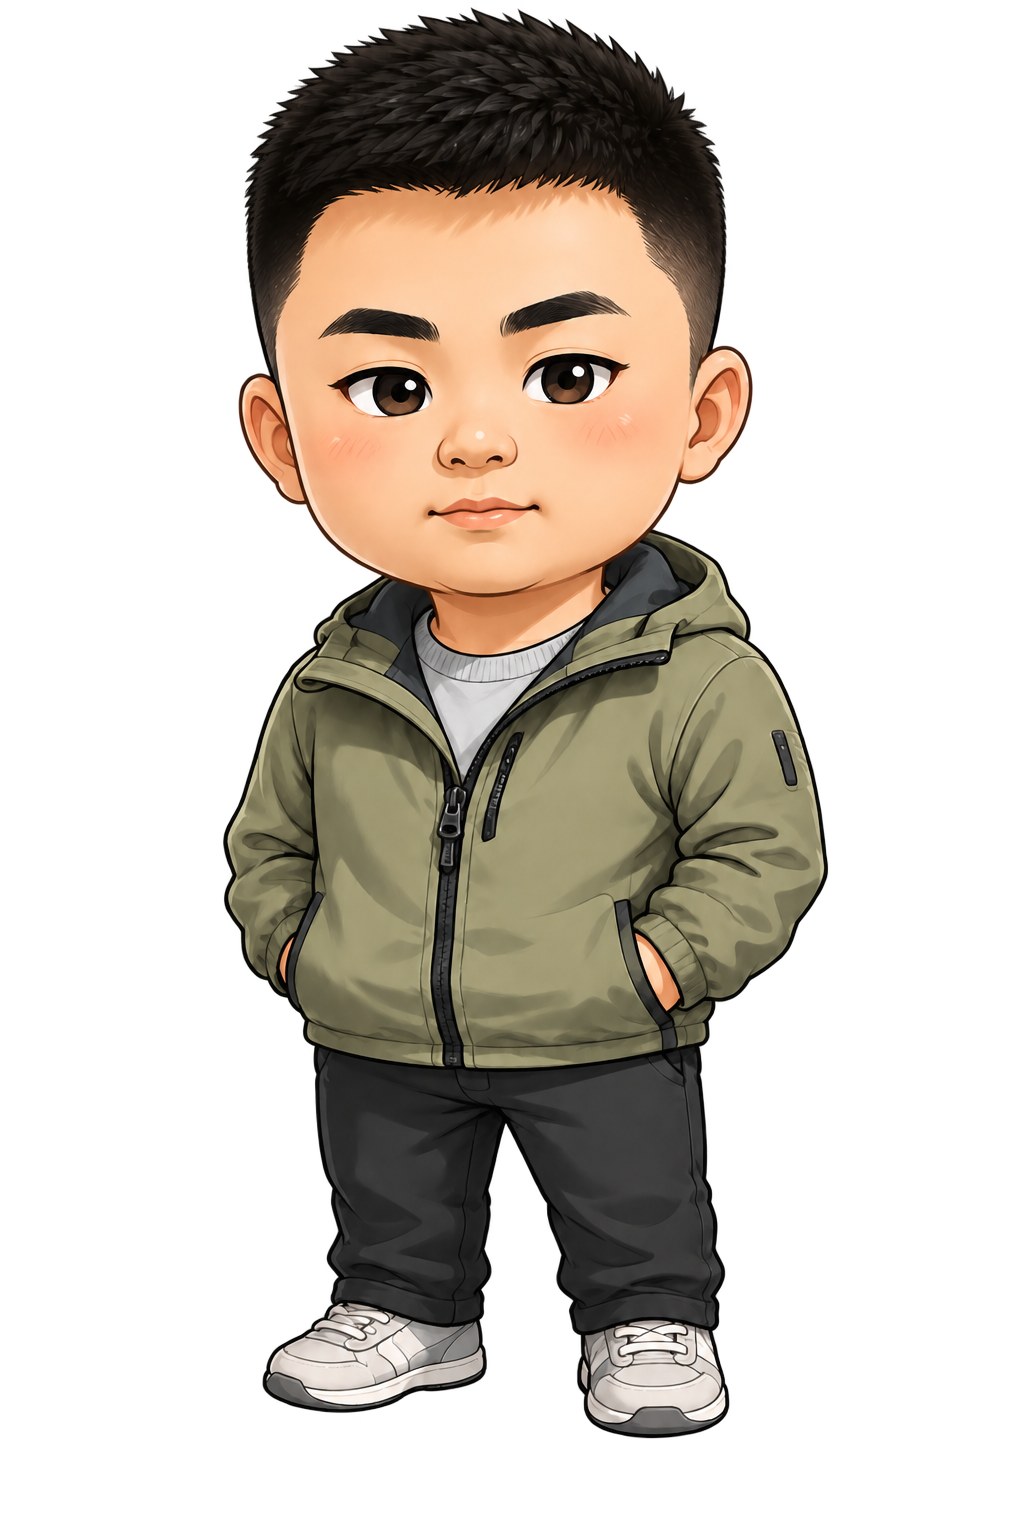
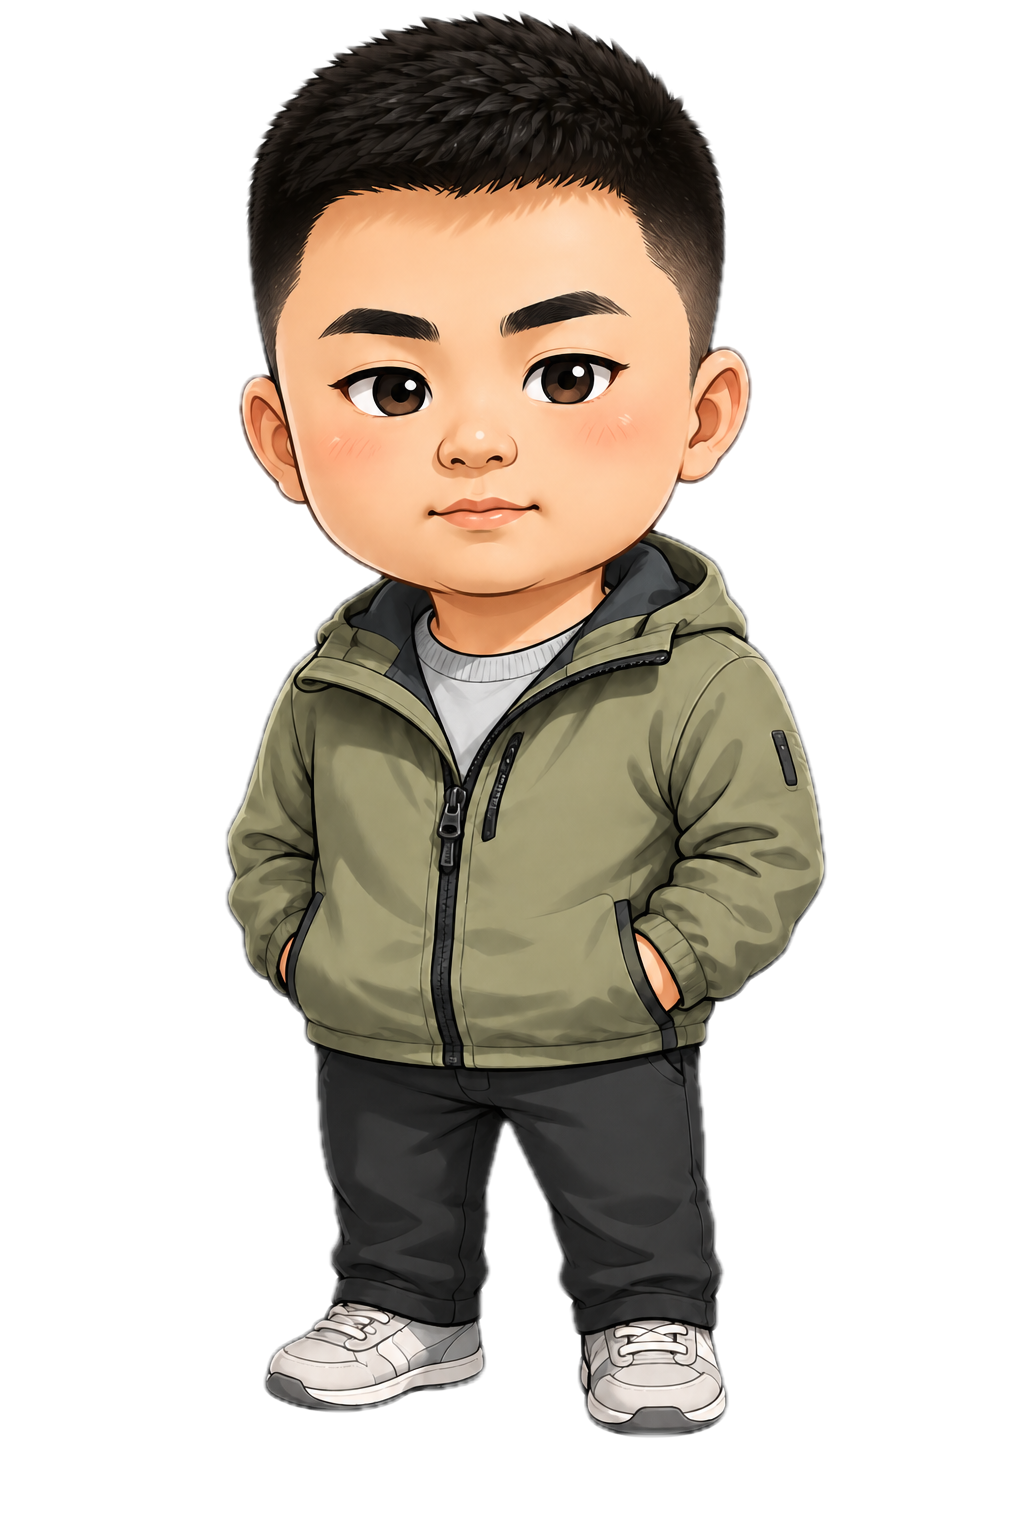
fix: ship image-only desktop pet

diff --git a/app/desktop/src/main.ts b/app/desktop/src/main.ts
@@ -4,147 +4,55 @@ import "./styles.css";
 type SkinId = "business" | "casual";
 
 type Skin = {
-  id: SkinId;
   label: string;
-  description: string;
   src: string;
 };
 
 const skins: Record<SkinId, Skin> = {
   business: {
-    id: "business",
     label: "商务装",
-    description: "专注工作",
     src: "/skins/business.png",
   },
   casual: {
-    id: "casual",
     label: "休闲装",
-    description: "轻松陪伴",
     src: "/skins/casual.png",
   },
-};
-
-const icon = (path: string) => `
-  <svg viewBox="0 0 24 24" aria-hidden="true">
-    <path d="${path}" />
-  </svg>
-`;
-
-const icons = {
-  outfit: icon("M20 7 15.5 4.5 13 7l-1-3H8l-1 3-2.5-2.5L0 7l3 5 3-1v9h12v-9l3 1 3-5h-4Z"),
-  task: icon("M9 11l3 3L22 4M21 12v7a2 2 0 0 1-2 2H5a2 2 0 0 1-2-2V5a2 2 0 0 1 2-2h11"),
-  rest: icon("M12 2a10 10 0 1 0 10 10A7 7 0 0 1 12 2Z"),
-  hide: icon("M2 12s3.5-7 10-7 10 7 10 7-3.5 7-10 7S2 12 2 12Zm10 3a3 3 0 1 0 0-6 3 3 0 0 0 0 6Z"),
-  check: icon("m5 12 4 4L19 6"),
 };
 
 const app = document.querySelector<HTMLElement>("#app");
 if (!app) throw new Error("App root not found");
 
 app.innerHTML = `
-  <section class="pet-stage" aria-label="Kiro 桌面宠物">
-    <div class="status-pill" role="status">
-      <span class="status-dot"></span>
-      <span id="statusText">空闲待命</span>
-    </div>
-
-    <nav class="radial-menu" id="radialMenu" aria-label="快捷操作" aria-hidden="true">
-      <button class="action action-outfit" data-action="outfit" aria-label="换装">
-        ${icons.outfit}<span>换装</span>
-      </button>
-      <button class="action action-task" data-action="task" aria-label="任务">
-        ${icons.task}<span>任务</span>
-      </button>
-      <button class="action action-rest" data-action="rest" aria-label="休息">
-        ${icons.rest}<span>休息</span>
-      </button>
-      <button class="action action-hide" data-action="hide" aria-label="隐藏">
-        ${icons.hide}<span>隐藏</span>
-      </button>
-    </nav>
-
-    <button class="pet-surface" id="petSurface" aria-label="点击打开快捷操作，拖动可移动桌宠" aria-expanded="false">
-      <span class="drag-hint">拖动我 · 点击互动</span>
+  <main class="pet-stage">
+    <button
+      class="pet-surface"
+      id="petSurface"
+      type="button"
+      aria-label="点击切换造型，拖动移动桌宠"
+    >
       <img id="petImage" alt="Kiro 桌面宠物" draggable="false" />
-      <span class="pet-shadow"></span>
     </button>
-
-    <aside class="skin-picker" id="skinPicker" aria-label="换装" aria-hidden="true">
-      <header>
-        <div>
-          <strong>今天穿什么？</strong>
-          <span>选择一套造型</span>
-        </div>
-        <button class="close-picker" id="closePicker" aria-label="关闭换装">×</button>
-      </header>
-      <div class="skin-options">
-        ${Object.values(skins)
-          .map(
-            (skin) => `
-              <button class="skin-option" data-skin="${skin.id}" aria-label="切换到${skin.label}">
-                <span class="skin-thumb"><img src="${skin.src}" alt="" /></span>
-                <span class="skin-copy"><strong>${skin.label}</strong><small>${skin.description}</small></span>
-                <span class="skin-check">${icons.check}</span>
-              </button>
-            `,
-          )
-          .join("")}
-      </div>
-    </aside>
-
-    <div class="toast" id="toast" role="status" aria-live="polite"></div>
-  </section>
+  </main>
 `;
 
 const petWindow = getCurrentWindow();
 const petSurface = document.querySelector<HTMLButtonElement>("#petSurface")!;
 const petImage = document.querySelector<HTMLImageElement>("#petImage")!;
-const radialMenu = document.querySelector<HTMLElement>("#radialMenu")!;
-const skinPicker = document.querySelector<HTMLElement>("#skinPicker")!;
-const closePicker = document.querySelector<HTMLButtonElement>("#closePicker")!;
-const toast = document.querySelector<HTMLElement>("#toast")!;
-const statusText = document.querySelector<HTMLElement>("#statusText")!;
 
-let activeSkin: SkinId = localStorage.getItem("kiro-pet-skin") === "casual" ? "casual" : "business";
-let menuOpen = false;
-let pickerOpen = false;
-let toastTimer: number | undefined;
+let activeSkin: SkinId =
+  localStorage.getItem("kiro-pet-skin") === "casual" ? "casual" : "business";
 let pointerOrigin: { x: number; y: number } | null = null;
 let dragging = false;
 
-function updateSkin(skinId: SkinId, announce = false) {
+function updateSkin(skinId: SkinId) {
   activeSkin = skinId;
   petImage.src = skins[skinId].src;
   petImage.alt = `穿着${skins[skinId].label}的 Kiro 桌面宠物`;
   localStorage.setItem("kiro-pet-skin", skinId);
-  document.querySelectorAll<HTMLButtonElement>(".skin-option").forEach((button) => {
-    const selected = button.dataset.skin === skinId;
-    button.classList.toggle("selected", selected);
-    button.setAttribute("aria-pressed", String(selected));
-  });
-  if (announce) showToast(`已换上${skins[skinId].label}`);
 }
 
-function setMenu(open: boolean) {
-  menuOpen = open;
-  radialMenu.classList.toggle("open", open);
-  radialMenu.setAttribute("aria-hidden", String(!open));
-  petSurface.setAttribute("aria-expanded", String(open));
-  if (!open) setPicker(false);
-}
-
-function setPicker(open: boolean) {
-  pickerOpen = open;
-  skinPicker.classList.toggle("open", open);
-  skinPicker.setAttribute("aria-hidden", String(!open));
-}
-
-function showToast(message: string) {
-  window.clearTimeout(toastTimer);
-  toast.textContent = message;
-  toast.classList.add("visible");
-  toastTimer = window.setTimeout(() => toast.classList.remove("visible"), 2200);
+function switchSkin() {
+  updateSkin(activeSkin === "business" ? "casual" : "business");
 }
 
 petSurface.addEventListener("pointerdown", (event) => {
@@ -155,7 +63,12 @@ petSurface.addEventListener("pointerdown", (event) => {
 
 petSurface.addEventListener("pointermove", (event) => {
   if (!pointerOrigin || dragging) return;
-  const distance = Math.hypot(event.screenX - pointerOrigin.x, event.screenY - pointerOrigin.y);
+
+  const distance = Math.hypot(
+    event.screenX - pointerOrigin.x,
+    event.screenY - pointerOrigin.y,
+  );
+
   if (distance > 6) {
     dragging = true;
     void petWindow.startDragging();
@@ -163,7 +76,7 @@ petSurface.addEventListener("pointermove", (event) => {
 });
 
 petSurface.addEventListener("pointerup", () => {
-  if (pointerOrigin && !dragging) setMenu(!menuOpen);
+  if (pointerOrigin && !dragging) switchSkin();
   pointerOrigin = null;
   dragging = false;
 });
@@ -171,39 +84,6 @@ petSurface.addEventListener("pointerup", () => {
 petSurface.addEventListener("pointercancel", () => {
   pointerOrigin = null;
   dragging = false;
-});
-
-document.querySelectorAll<HTMLButtonElement>("[data-action]").forEach((button) => {
-  button.addEventListener("click", () => {
-    switch (button.dataset.action) {
-      case "outfit":
-        setPicker(!pickerOpen);
-        break;
-      case "task":
-        statusText.textContent = "准备工作";
-        showToast("任务入口将在 KiroCrew 接入后启用");
-        break;
-      case "rest":
-        statusText.textContent = "休息一下";
-        showToast("深呼吸，稍后继续");
-        setMenu(false);
-        window.setTimeout(() => (statusText.textContent = "空闲待命"), 3500);
-        break;
-      case "hide":
-        void petWindow.hide();
-        break;
-    }
-  });
-});
-
-document.querySelectorAll<HTMLButtonElement>("[data-skin]").forEach((button) => {
-  button.addEventListener("click", () => updateSkin(button.dataset.skin as SkinId, true));
-});
-
-closePicker.addEventListener("click", () => setPicker(false));
-
-document.addEventListener("keydown", (event) => {
-  if (event.key === "Escape") setMenu(false);
 });
 
 document.addEventListener("contextmenu", (event) => event.preventDefault());

diff --git a/app/desktop/src/styles.css b/app/desktop/src/styles.css
@@ -448,3 +448,21 @@ button {
     transition-duration: 0.001ms !important;
   }
 }
+
+/* Image-only desktop pet: no card, status, controls, backdrop, or synthetic shadow. */
+.pet-surface {
+  inset: 0;
+  align-items: center;
+}
+
+.pet-surface:focus-visible::after {
+  display: none;
+}
+
+#petImage {
+  width: 100%;
+  height: 100%;
+  object-position: center;
+  filter: none;
+  animation: none;
+}

diff --git a/README.md b/README.md
@@ -1,15 +1,14 @@
 # Kiro Desktop Pet
 
-A lightweight floating desktop companion for KiroCrew, built with Tauri 2 and vanilla TypeScript. It supports macOS and Windows, transparent always-on-top windows, drag-to-move interaction, and persistent outfit switching.
+A lightweight image-only desktop companion for KiroCrew, built with Tauri 2 and vanilla TypeScript. It supports macOS and Windows, keeps only the supplied character artwork visible in a transparent always-on-top window, and remembers the selected character.
 
 ## MVP features
 
 - Transparent, borderless, always-on-top pet window
-- Drag the pet anywhere on the desktop
-- Click to open a radial action menu
-- Outfit-first interaction with business and casual skins
-- Selected outfit persists across launches
-- Task, rest, and hide quick actions
+- No card, status pill, menu, artificial backdrop, or window chrome
+- Drag the character anywhere on the desktop
+- Click the character to switch between the supplied business and casual images
+- Selected character persists across launches
 - Cross-platform GitHub Actions release builds
 - KiroCrew external registry metadata
 
@@ -22,7 +21,7 @@ A lightweight floating desktop companion for KiroCrew, built with Tauri 2 and va
 
 ## Development
 
-Requirements: Node.js 22+, Rust stable, and the platform prerequisites from the Tauri 2 documentation.
+Requirements: Node.js 22+, Rust 1.88+, and the platform prerequisites from the Tauri 2 documentation.
 
 ```bash
 cd app/desktop
@@ -38,7 +37,7 @@ npm install
 npm run tauri build
 ```
 
-GitHub Actions builds macOS and Windows installers when a version tag such as `v0.1.0` is pushed.
+GitHub Actions builds macOS and Windows installers when a version tag such as `v0.1.1` is pushed.
 
 ## KiroCrew external registry
 

diff --git a/app/README.md b/app/README.md
@@ -1,12 +1,14 @@
 # Kiro Desktop Pet App Package
 
-This directory is the KiroCrew-installable package referenced by the repository's external registry.
+This directory is the KiroCrew-installable metadata package referenced by the repository's external registry. The native desktop client lives in `desktop/` and is distributed separately as macOS and Windows installers from GitHub Releases.
 
-The desktop client lives in `desktop/`. For the MVP, build or run the client manually, then install this directory into KiroCrew from the App Store's **Install from Path** section.
+The App package is self-managed and contains no gateway backend or executable registration. Add the repository as an external registry on branch `main`, sync it, and install **Kiro Desktop Pet**. Then install the native package for the local platform from the corresponding GitHub release.
+
+For local manifest validation:
 
 ```bash
 kirocrew app install /absolute/path/to/kiro-desktop-pet/app
 kirocrew app enable kiro-desktop-pet
 ```
 
-Public releases provide macOS and Windows installers. A later release will add platform-specific one-click installer handoff after both unsigned packages have been validated.
+The desktop window itself contains only the transparent character image. Drag to move it; click it to switch between the supplied business and casual characters.
